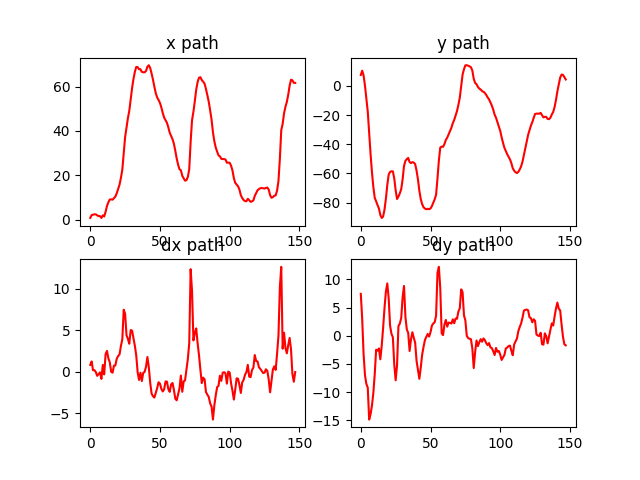
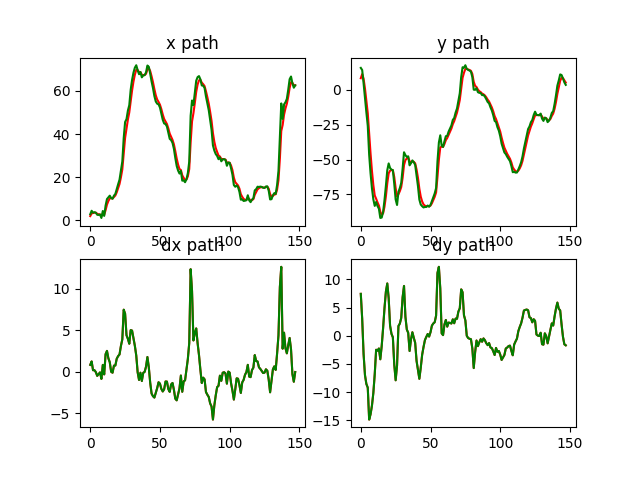
still trying to figure out whats wrong

diff --git a/src/video_stabilization_2.py b/src/video_stabilization_2.py
@@ -87,7 +87,7 @@ def compute_timewise_homographies(frames, features, outputMatches=False):
     if M is None:
       return timewise_homographies, i
     H = np.append(M, np.array([0, 0, 1]).reshape((1,3)), axis=0)
-    timewise_homographies.append(np.transpose(H))
+    timewise_homographies.append(H)
   return timewise_homographies, len(frames) - 1
 
 
@@ -109,11 +109,18 @@ def compute_smooth_path(frame_dimensions, timewise_homographies=[], crop_ratio=0
 
   n = len(timewise_homographies)
 
+  # 
+  # (dx, dy, a, b, c, d)
+  # 
+  # | a   b   dx  |
+  # | c   d   dy  |
+  # | 0   0   1   |
+  #
+
   weight_constant = 10
   weight_linear = 1
   weight_parabolic =  100
   affine_weights = np.transpose([1, 1, 100, 100, 100, 100])
-
   smooth_path = cp.Variable((n, 6))
   slack_var_1 = cp.Variable((n, 6))
   slack_var_2 = cp.Variable((n, 6))
@@ -162,9 +169,9 @@ def compute_smooth_path(frame_dimensions, timewise_homographies=[], crop_ratio=0
     B_t2 = np.array([smooth_path[i+2, 2], smooth_path[i+2, 4], 0, smooth_path[i+2, 3], smooth_path[i+2, 5], 0, smooth_path[i+2, 0], smooth_path[i+2, 1], 1]).reshape((3,3))
     B_t3 = np.array([smooth_path[i+3, 2], smooth_path[i+3, 4], 0, smooth_path[i+3, 3], smooth_path[i+3, 5], 0, smooth_path[i+3, 0], smooth_path[i+3, 1], 1]).reshape((3,3))
 
-    residual_t = timewise_homographies[i + 1] @ B_t1  - B_t
-    residual_t1 = timewise_homographies[i + 2] @ B_t2 - B_t1
-    residual_t2 = timewise_homographies[i + 3] @ B_t3 - B_t2
+    residual_t = np.transpose(timewise_homographies[i + 1]) @ B_t1  - B_t
+    residual_t1 = np.transpose(timewise_homographies[i + 2]) @ B_t2 - B_t1
+    residual_t2 = np.transpose(timewise_homographies[i + 3]) @ B_t3 - B_t2
     residual_t = np.array([residual_t[2, 0], residual_t[2, 1], residual_t[0, 0], residual_t[1, 0], residual_t[0, 1], residual_t[1, 1]])
     residual_t1 = np.array([residual_t1[2, 0], residual_t1[2, 1], residual_t1[0, 0], residual_t1[1, 0], residual_t1[0, 1], residual_t1[1, 1]])
     residual_t2 = np.array([residual_t2[2, 0], residual_t2[2, 1], residual_t2[0, 0], residual_t2[1, 0], residual_t2[0, 1], residual_t2[1, 1]])
@@ -174,13 +181,6 @@ def compute_smooth_path(frame_dimensions, timewise_homographies=[], crop_ratio=0
     #  -e_t1 <= R_t(p) < e_t1
     #  -e_t2 <= R_t1(p) - R_t(p) < e_t2
     #  -e_t3 <= R_t2(p) - 2R_t1(p) + R_t(p) < e_t3
-    # print(slack_var_1)
-    # print(slack_var_1[i, :])
-    # print(slack_var_1[i])
-    # print(np.array(slack_var_1[i, :]))
-    # print(np.array(slack_var_1[i]))
-    # print("-------------")
-    # constraints.append(residual_t <= np.array(slack_var_1[i, :]).reshape((6,)))
     for j in range(6):
       constraints.append(residual_t[j] <= slack_var_1[i, j])
       constraints.append(residual_t[j] >= -slack_var_1[i, j])
@@ -203,9 +203,9 @@ def compute_smooth_path(frame_dimensions, timewise_homographies=[], crop_ratio=0
 def convert_path_to_homography(path, n):
   smooth_homography = []
   for i in range(n):
-    smooth_homography.append(np.array([path[i, 2], path[i, 4], 0, 
-                                      path[i, 3], path[i, 5], 0, 
-                                      path[i, 0], path[i, 1], 1]).reshape(3, 3))
+    smooth_homography.append(np.array([path[i, 2], path[i, 3], path[i, 0], 
+                                        path[i, 4], path[i, 5], path[i, 1], 
+                                        0, 0, 1]).reshape(3, 3))
   return smooth_homography
 
 
@@ -225,18 +225,17 @@ def apply_smoothing(original_frames, smooth_path, crop_ratio=0.8):
   dst_corners = np.array([[0, 0], [w, 0], [0, h], [w, h]]).astype(np.float32)
 
   new_frames = []
-  for i in range(1, n):
+  for i in range(n-1):
     projected_corners = []
     for corner in crop_corners:
-      projected_corners.append(corner.dot(smooth_path[i-1]))
+      projected_corners.append(smooth_path[i-1].dot(corner))
     src_corners = np.array([[projected_corners[0][0], projected_corners[0][1]],
                             [projected_corners[1][0], projected_corners[1][1]], 
                             [projected_corners[2][0], projected_corners[2][1]],
                             [projected_corners[3][0], projected_corners[3][1]]]).astype(np.float32)
-    
     # H, _ = cv.findHomography(src_corners, dst_corners, cv.RANSAC, 5.0)
-    H, _ = cv.estimateAffine2D(src_corners, dst_corners, method=cv.RANSAC)
-    warp_frame = cv.warpAffine(original_frames[i], H, (original_frames[i].shape[1], original_frames[i].shape[0]))
+    # H, _ = cv.estimateAffine2D(src_corners, dst_corners, method=cv.RANSAC)
+    warp_frame = cv.warpPerspective(original_frames[i], smooth_path[i], (original_frames[i].shape[1], original_frames[i].shape[0]))
     frame_filename = './data/output/frame' + str(i) + '.jpg'
     cv.imwrite(frame_filename, warp_frame)
     new_frames.append(warp_frame)
@@ -252,27 +251,33 @@ def graph_paths(timewise_homographies=[], smooth_path=[]):
   original_dy = np.zeros(n-1)
   smooth_x_path = np.zeros(n-1)
   smooth_y_path = np.zeros(n-1)
-  pt = np.array([0, 0, 1]).reshape((1,3))
+  smooth_dx_path = np.zeros(n-1)
+  smooth_dy_path = np.zeros(n-1)
+  pt = np.array([1, 1, 1])
   for i in range(n-1):
-    pt = pt.dot(timewise_homographies[i]).reshape((3,))
+    pt = timewise_homographies[i].dot(pt)
     original_x_path[i] = pt[0]
     original_y_path[i] = pt[1]
-    original_dx[i] = timewise_homographies[i][2,0]
-    original_dy[i] = timewise_homographies[i][2,1]
-    # smooth_pt = pt.reshape((1,3)).dot(smooth_path[i]).reshape((3,))
-    # smooth_x_path[i] = smooth_pt[0]
-    # smooth_y_path[i] = smooth_pt[1]
+    original_dx[i] = timewise_homographies[i][0,2]
+    original_dy[i] = timewise_homographies[i][1,2]
+    smooth_pt = smooth_path[i].dot(pt)
+    smooth_x_path[i] = smooth_pt[0]
+    smooth_y_path[i] = smooth_pt[1]
+    smooth_dx_path[i] = smooth_path[i][0,2]
+    smooth_dy_path[i] = smooth_path[i][1,2]
   fig, axs = plt.subplots(2,2)
   axs[0, 0].set_title('x path')
   axs[0, 0].plot(np.arange(0, n-1), original_x_path, '-r')
-  # axs[0].plot(np.arange(0, n-1), smooth_x_path, '-g')
+  axs[0, 0].plot(np.arange(0, n-1), smooth_x_path, '-g')
   axs[0, 1].set_title('y path')
   axs[0, 1].plot(np.arange(0, n-1), original_y_path, '-r')
-  # axs[1].plot(np.arange(0, n-1), smooth_y_path, '-')
+  axs[0, 1].plot(np.arange(0, n-1), smooth_y_path, '-g')
   axs[1, 0].set_title('dx path')
   axs[1, 0].plot(np.arange(0, n-1), original_dx, '-r')
+  axs[1, 0].plot(np.arange(0, n-1), smooth_dx_path, '-g')
   axs[1, 1].set_title('dy path')
   axs[1, 1].plot(np.arange(0, n-1), original_dy, '-r')
+  axs[1, 1].plot(np.arange(0, n-1), smooth_dy_path, '-g')
   plt.savefig('motion.png')
   plt.show()
 
@@ -284,7 +289,7 @@ def main():
   timewise_homographies, _ = compute_timewise_homographies(original_frames, features)
   # smooth_path = compute_smooth_path(original_frames[0].shape, timewise_homographies)
   apply_smoothing(original_frames, timewise_homographies)
-  graph_paths(timewise_homographies)
+  graph_paths(timewise_homographies, timewise_homographies)
   
 
 if __name__ == "__main__":
